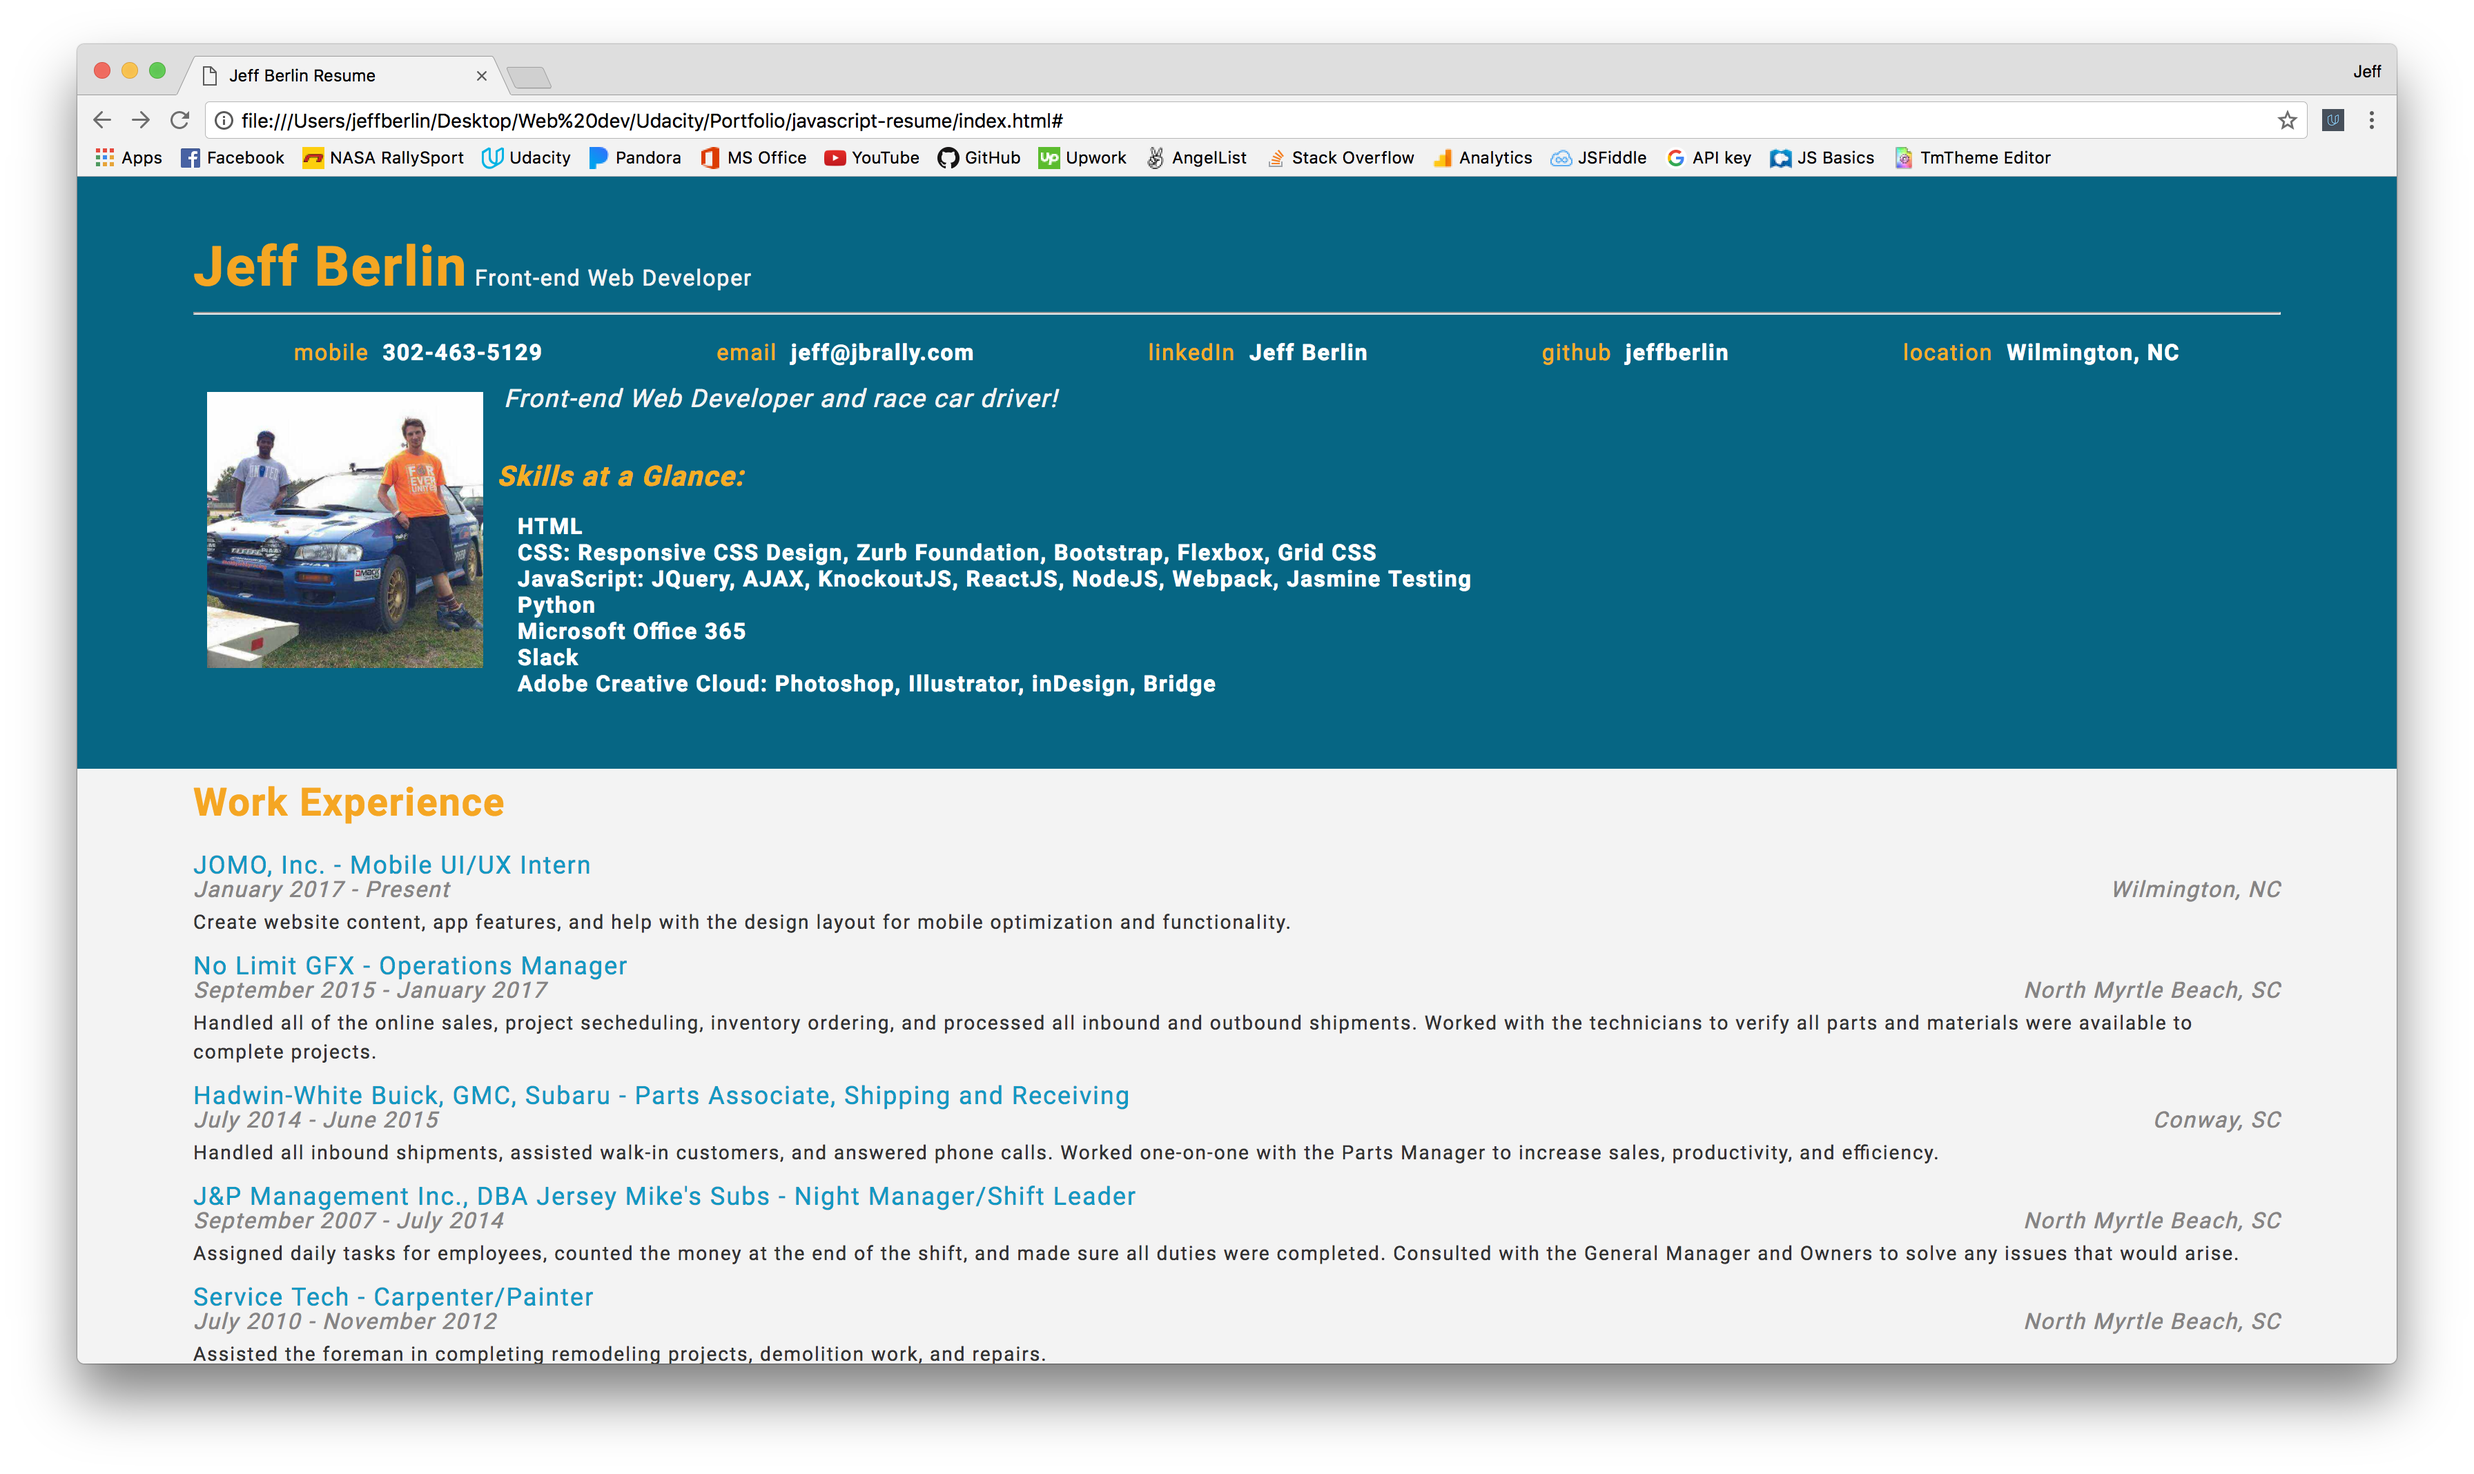
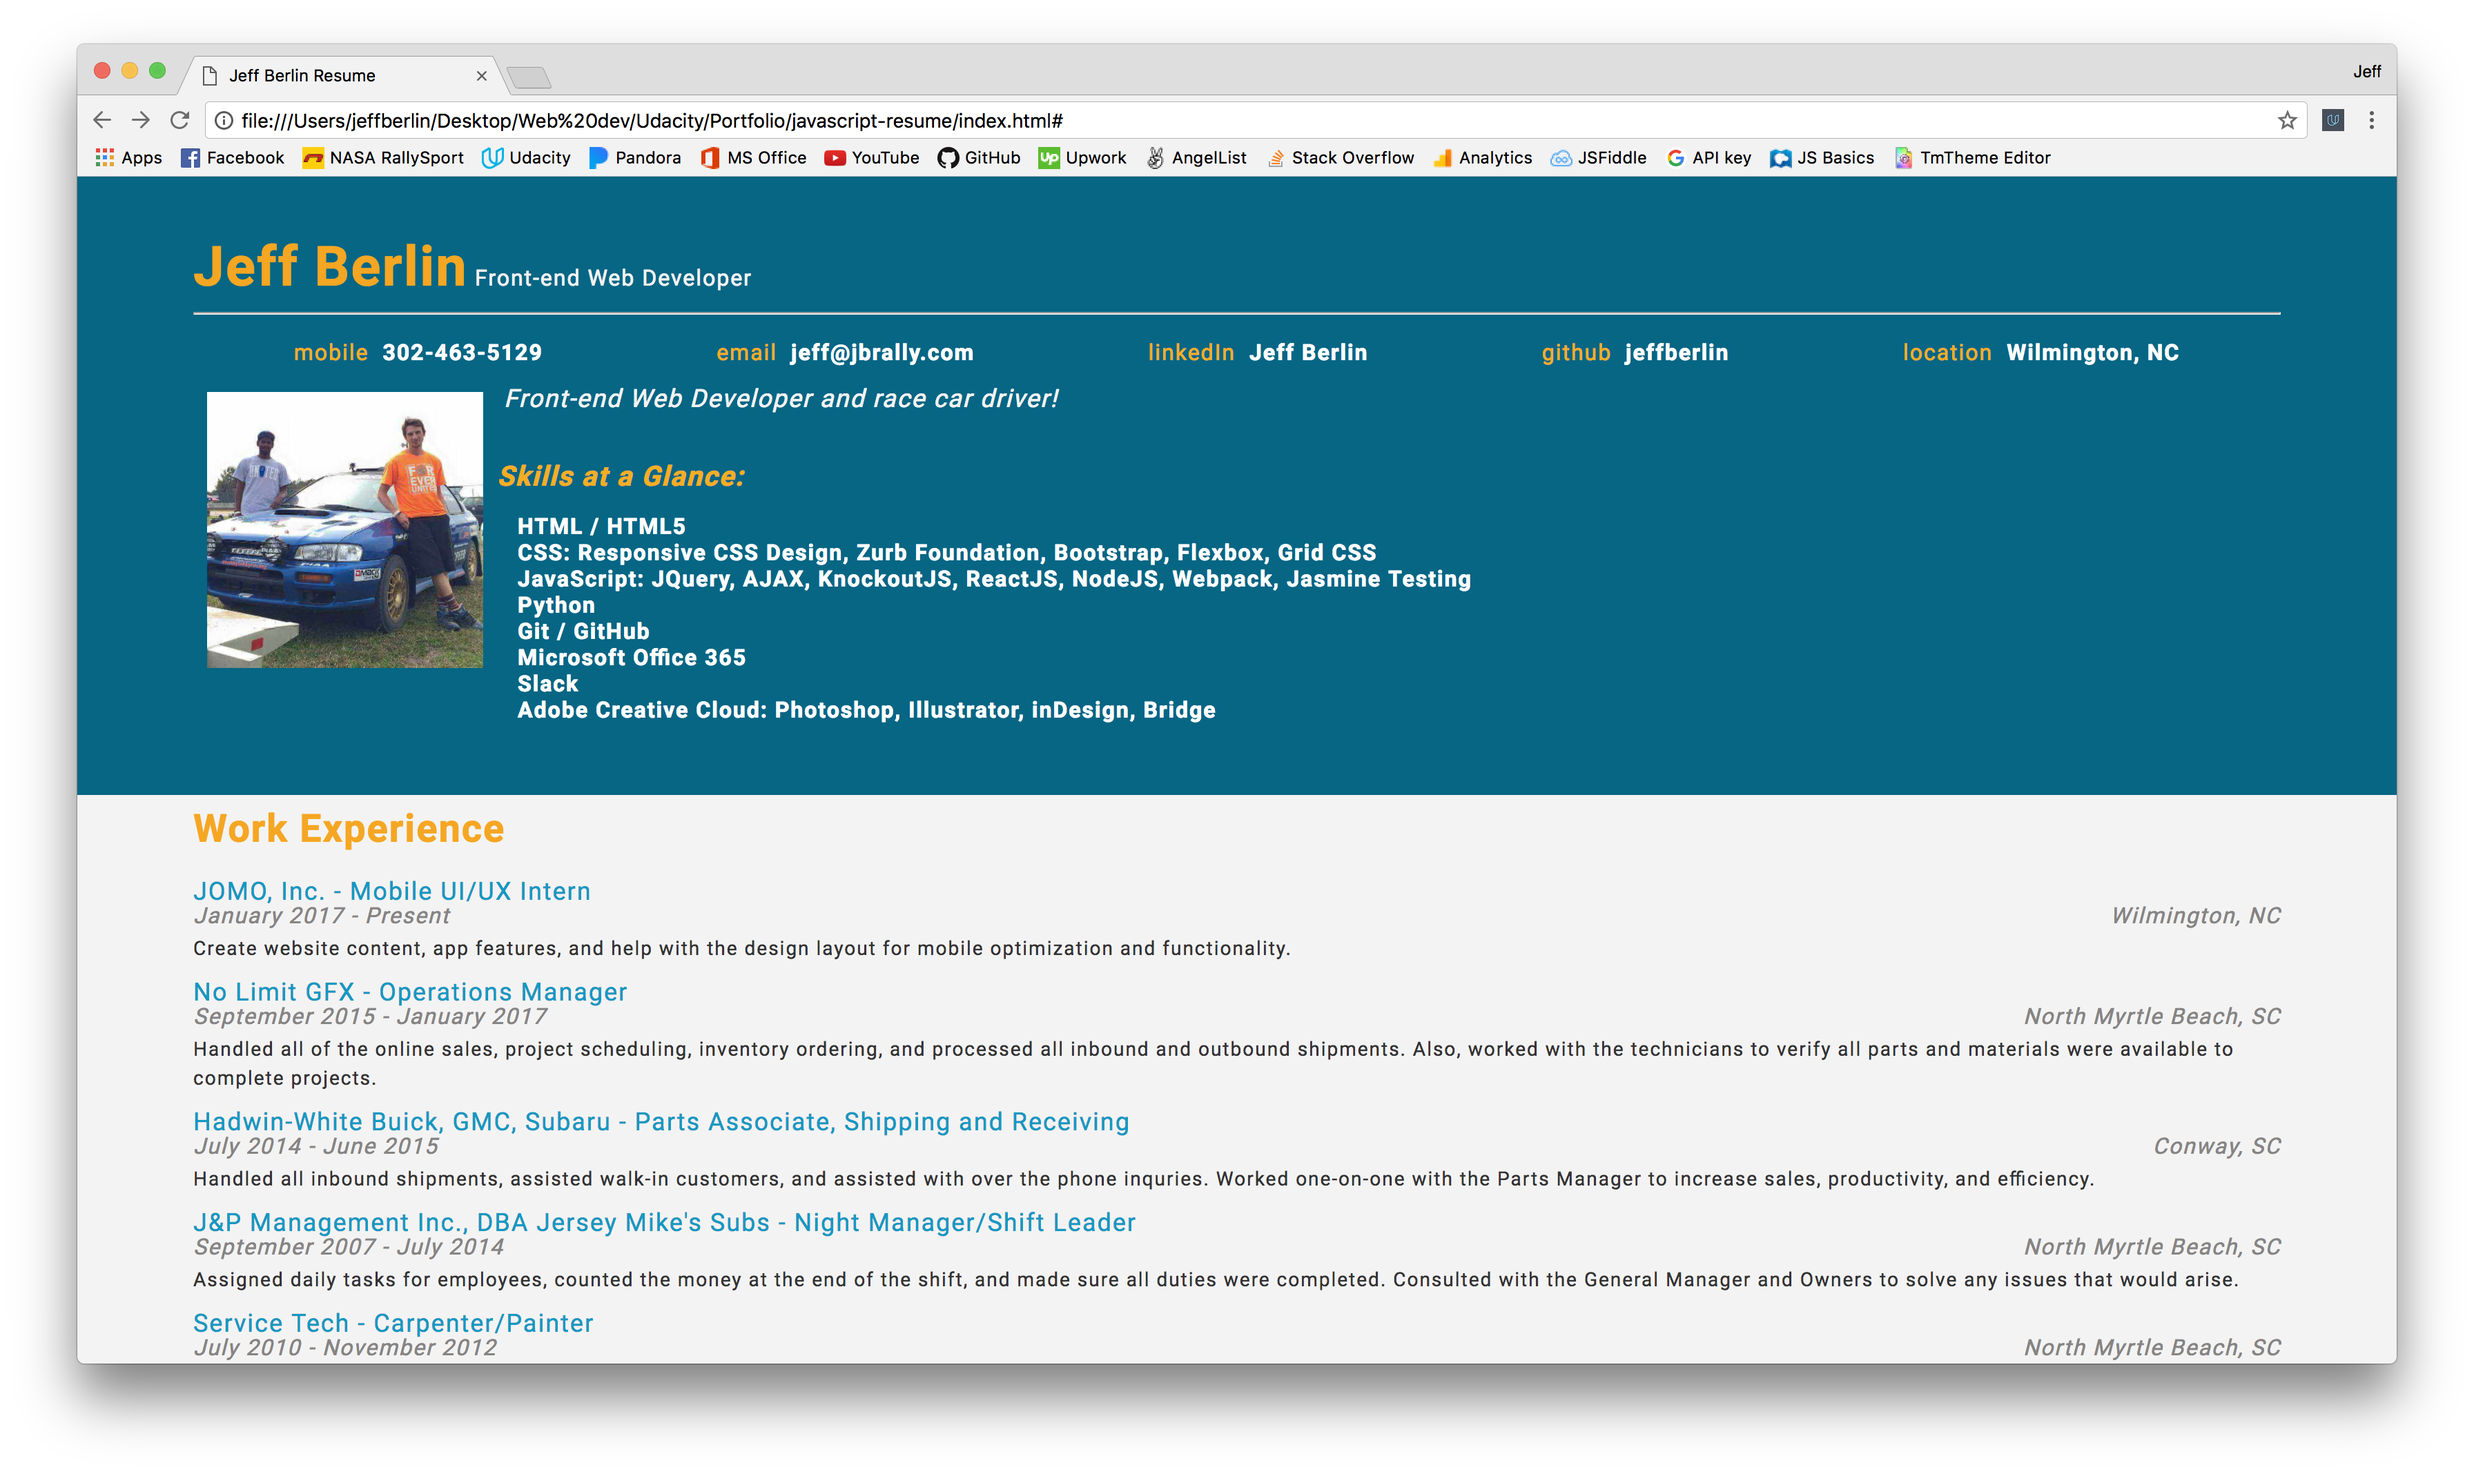
Updated info, fixed typos, updated screenshots
Updated descriptions, fixed typos, updated screenshots

Changed region(s): [[0.0312, 0.4017, 0.9688, 0.927], [0.25, 0.3399, 0.2812, 0.3708]]

diff --git a/js/resumeBuilder.js b/js/resumeBuilder.js
@@ -14,7 +14,7 @@ var bio = {
     "Wilmington, NC"
   ],
   "welcomeMessage" : "Front-end Web Developer and race car driver!",
-  "skills" : ["HTML", "CSS: Responsive CSS Design, Zurb Foundation, Bootstrap, Flexbox, Grid CSS", "JavaScript: JQuery, AJAX, KnockoutJS, ReactJS, NodeJS, Webpack, Jasmine Testing", "Python", "Microsoft Office 365", "Slack", "Adobe Creative Cloud: Photoshop, Illustrator, inDesign, Bridge"],
+  "skills" : ["HTML / HTML5", "CSS: Responsive CSS Design, Zurb Foundation, Bootstrap, Flexbox, Grid CSS", "JavaScript: JQuery, AJAX, KnockoutJS, ReactJS, NodeJS, Webpack, Jasmine Testing", "Python", "Git / GitHub", "Microsoft Office 365", "Slack", "Adobe Creative Cloud: Photoshop, Illustrator, inDesign, Bridge"],
   "biopic" : "images/racing-min.jpg"
 };
 
@@ -53,14 +53,14 @@ var work = {
       "title": "Operations Manager",
       "location": "North Myrtle Beach, SC",
       "dates": "September 2015 - January 2017",
-      "description": "Handled all of the online sales, project secheduling, inventory ordering, and processed all inbound and outbound shipments. Worked with the technicians to verify all parts and materials were available to complete projects."
+      "description": "Handled all of the online sales, project scheduling, inventory ordering, and processed all inbound and outbound shipments. Also, worked with the technicians to verify all parts and materials were available to complete projects."
     },
     {
       "employer": "Hadwin-White Buick, GMC, Subaru",
       "title": "Parts Associate, Shipping and Receiving",
       "location": "Conway, SC",
       "dates": "July 2014 - June 2015",
-      "description": "Handled all inbound shipments, assisted walk-in customers, and answered phone calls. Worked one-on-one with the Parts Manager to increase sales, productivity, and efficiency."
+      "description": "Handled all inbound shipments, assisted walk-in customers, and assisted with over the phone inquries. Worked one-on-one with the Parts Manager to increase sales, productivity, and efficiency."
     },
     {
       "employer": "J&P Management Inc., DBA Jersey Mike's Subs",
@@ -74,7 +74,7 @@ var work = {
       "title": "Carpenter/Painter",
       "location": "North Myrtle Beach, SC",
       "dates": "July 2010 - November 2012",
-      "description": "Assisted the foreman in completing remodeling projects, demolition work, and repairs."
+      "description": "Assisted the foreman in completing remodeling projects, demolition work, and maintenance repairs."
     }
   ]
   };
@@ -185,28 +185,28 @@ education.display();
   {
     "title": "Activity Randomizer",
     "dates": "April 2017",
-    "description": "Ever wanted to go do something instead of sit around and be boring, but never quite sure what to do? Here is the solution! A webpage that randomly picks activities to do! (Built using Foundation CSS).",
+    "description": "Ever wanted to go do something instead of sit around and be bored, but never quite sure what to do? Here is the solution! A webpage that randomly picks activities to do! (Built using Foundation CSS, HTML, and JavaScript).",
     "images": ["images/Activity Randomizer2 copy-min.png"],
     "url": "https://jeffberlin.github.io/Activity-Randomizer/picker.html"
   },
   {
     "title": "JavaScript Arcade Frogger Game",
     "dates": "December 2016",
-    "description": "A newer version of the Frogger, except with different characters and a new layout! (Built with JS, JQuery, HTML, and CSS).",
+    "description": "A newer version of the Frogger game, except with different characters and a new layout! (Built using JavaScript, JQuery, HTML, and CSS).",
     "images": ["images/JS Arcade Game.png"],
     "url": "https://jeffberlin.github.io/Frogger-JavaScript/"
   },
   {
     "title": "Wilmington Brewers",
     "dates": "March 2017",
-    "description": "An interactive Google Map that displays the breweries in Wilmington, NC and displays infowindow information provided by Foursquare. (Built using KnockoutJS).",
+    "description": "An interactive Google Map that displays the breweries in Wilmington, NC and displays infowindow information provided by Foursquare. (Built using HTML, CSS, JavaScript, KnockoutJS, AJAX requests, and Webpack).",
     "images": ["images/Wilmington Brewers.png"],
     "url": "https://github.com/jeffberlin/Wilmington-Brewers"
   },
   {
     "title": "RandomAPI User",
     "dates": "February 2017",
-    "description": "Built to the specifications of a design from Gavin Anthony, that pulls certain information from API users.",
+    "description": "Built to the specifications of a design from Gavin Anthony, that pulls certain information from API users. (Built using HTML, Flexbox, and JavaScript).",
     "images": ["images/randomapi.png"],
     "url": "https://jeffberlin.github.io/randomAPI/"
   }
